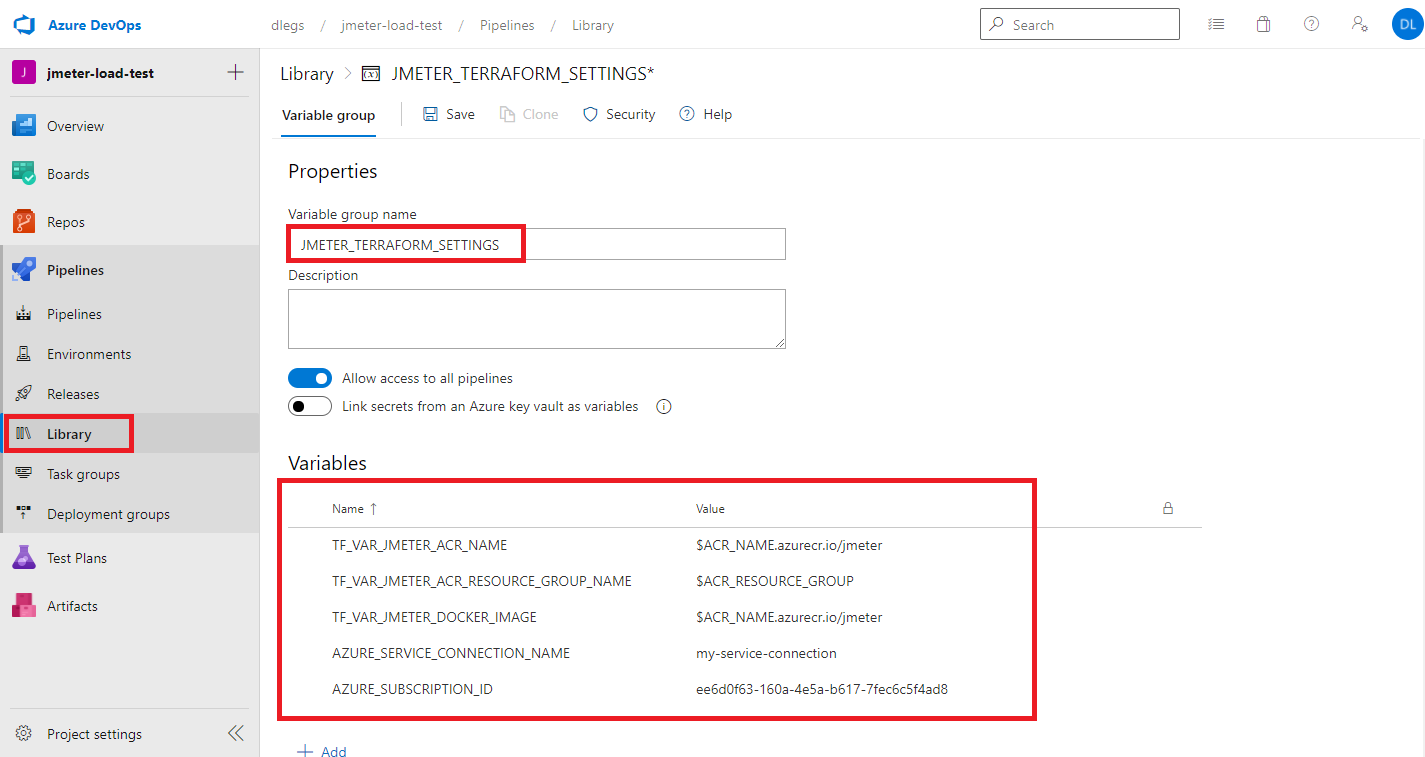
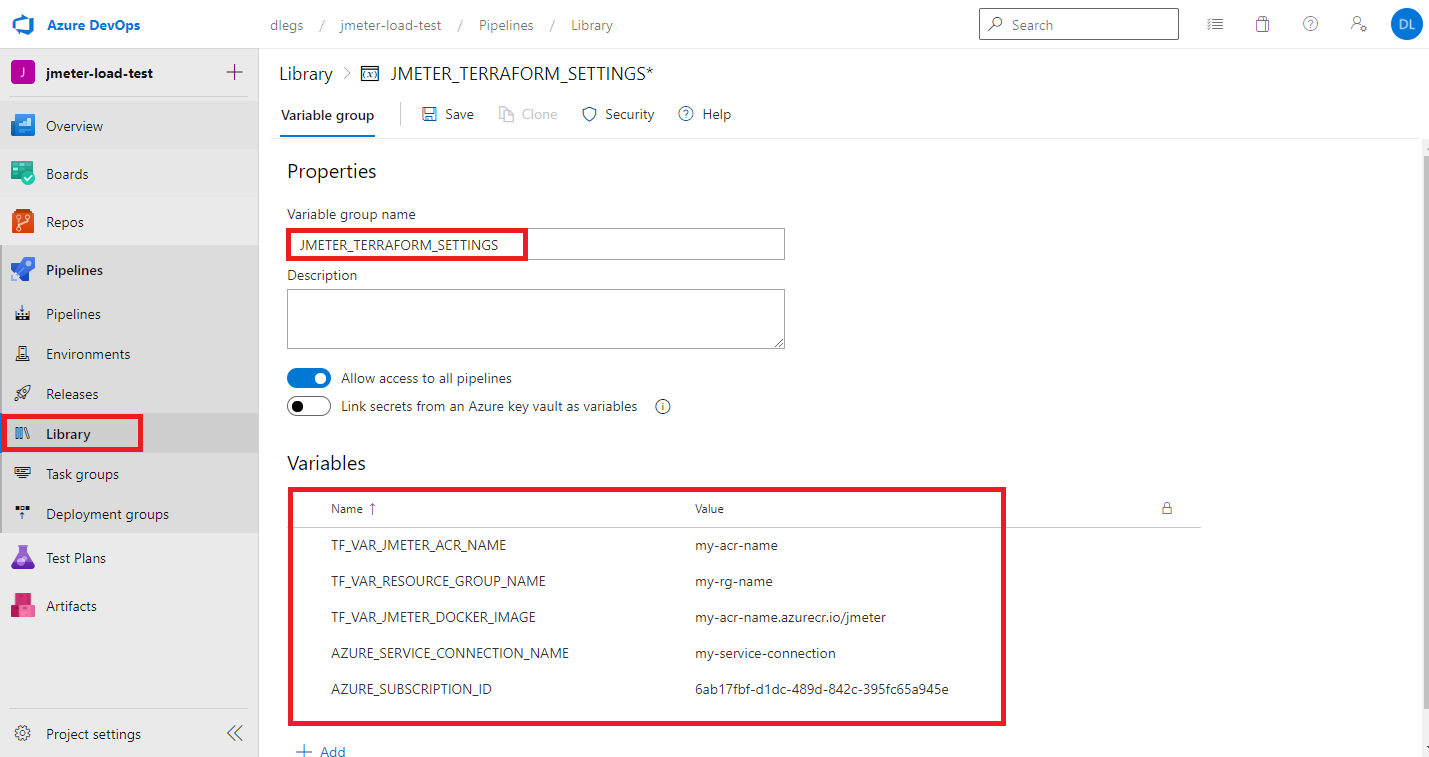
fixing variable names

diff --git a/README.md b/README.md
@@ -82,9 +82,9 @@ Create a variable group named `JMETER_TERRAFORM_SETTINGS` as described [in the D
 
 Add the following variables to the variable group:
 
-* TF_VAR_JMETER_ACR_NAME = $ACR_NAME
-* TF_VAR_JMETER_ACR_RESOURCE_GROUP_NAME = $ACR_RESOURCE_GROUP
-* TF_VAR_JMETER_DOCKER_IMAGE = $ACR_NAME.azurecr.io/jmeter
+* TF_VAR_JMETER_ACR_NAME = <your_azurecr_name>
+* TF_VAR_RESOURCE_GROUP_NAME = <your_rg_name>
+* TF_VAR_JMETER_DOCKER_IMAGE = <your_azurecr_name>.azurecr.io/jmeter
 * AZURE_SERVICE_CONNECTION_NAME = <your_service_connection_name> 
 * AZURE_SUBSCRIPTION_ID = <your_subscription_id>
 
@@ -98,8 +98,8 @@ Create a pipeline with **New Pipeline** (blue button, right side), chose **Azure
 
 A couple of extra steps before going to the JMeter deployment pipeline:
 - Create two variables:
-    * ACR_NAME=<your_acr_name>
-    * ACR_RESOURCE_GROUP=<your_rg_name>
+    * ACR_NAME = <your_azurecr_name>
+    * ACR_RESOURCE_GROUP = <your_rg_name>
 - Rename the new pipeline to `jmeter-docker-build` (in the Pipelines tab, find the three dots inside your pipeline row and there you can rename it)
 
 ### 5. Creating the JMeter pipeline
@@ -107,13 +107,13 @@ A couple of extra steps before going to the JMeter deployment pipeline:
 Replicate the steps as in step #4 but with yaml file **pipelines/azure-pipelines.load-test.yml** and rename to **jmeter-load-test**.
 For this pipeline we will need some extra variables along with the two others:
 
-  * API-KEY=<search_service_api_key>  (and keep it secret in devops)
-  * TF_VAR_JMETER_JMX_FILE=sample.jmx
-  * TF_VAR_JMETER_WORKERS_COUNT=1 (or as many as you want for scalability of the JMeter workers)
-  * ACR_NAME=<your_acr_name>
-  * ACR_RESOURCE_GROUP=<your_rg_name>
+  * API-KEY = <search_service_api_key>  (and keep it secret in devops)
+  * TF_VAR_JMETER_JMX_FILE = sample.jmx
+  * TF_VAR_JMETER_WORKERS_COUNT = 1 (or as many as you want for scalability of the JMeter workers)
+  * ACR_NAME = <your_azurecr_name>
+  * ACR_RESOURCE_GROUP = <your_rg_name>
 
-Save the pipeline but don't run it quite yet.
+Save the pipeline but don't run it yet. The [`sample.jmx`](./jmeter/sample.jmx) needs to be updated first as described in the next step.
 
 ### 6. Define the test definition inside your JMX file
 
